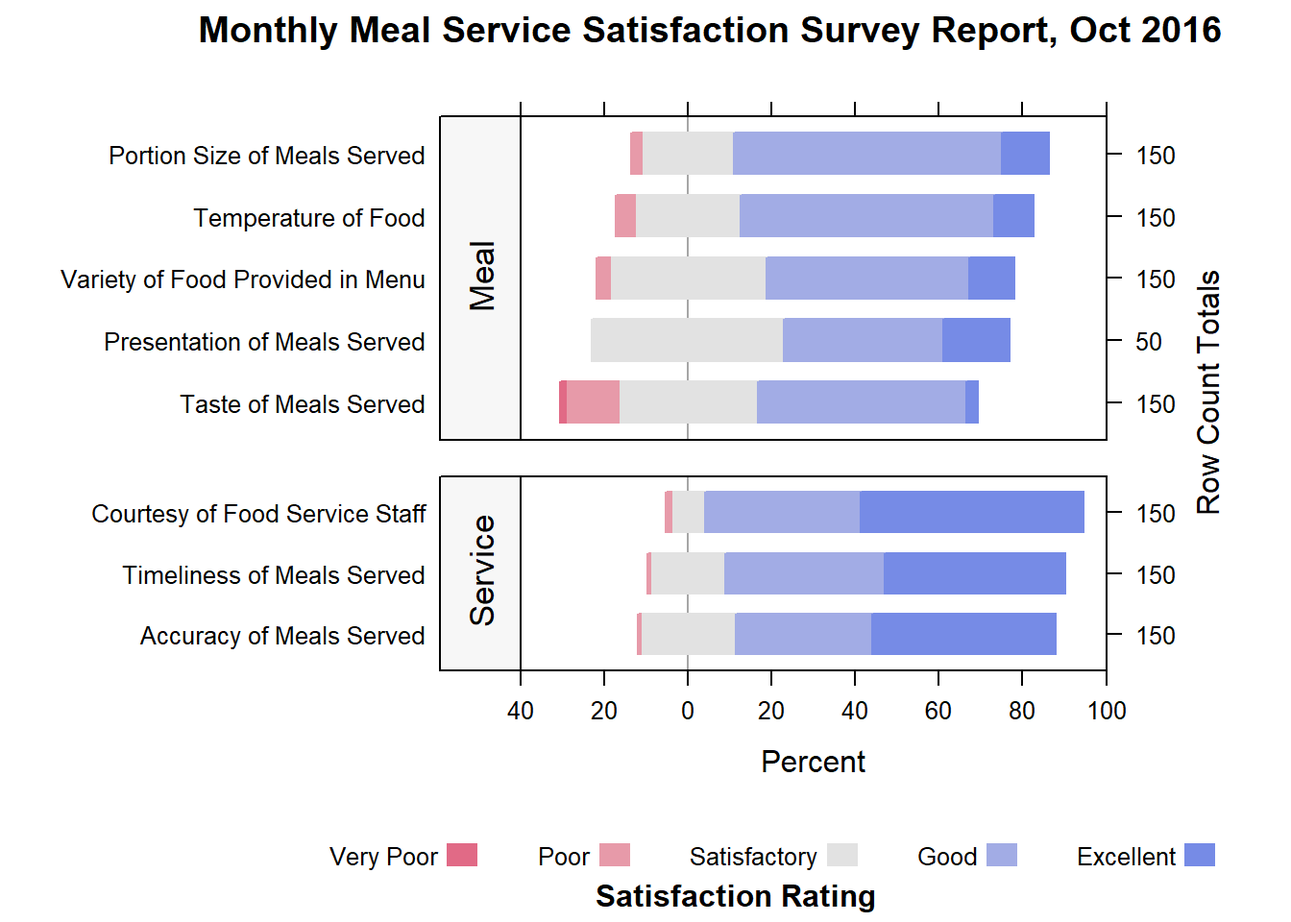
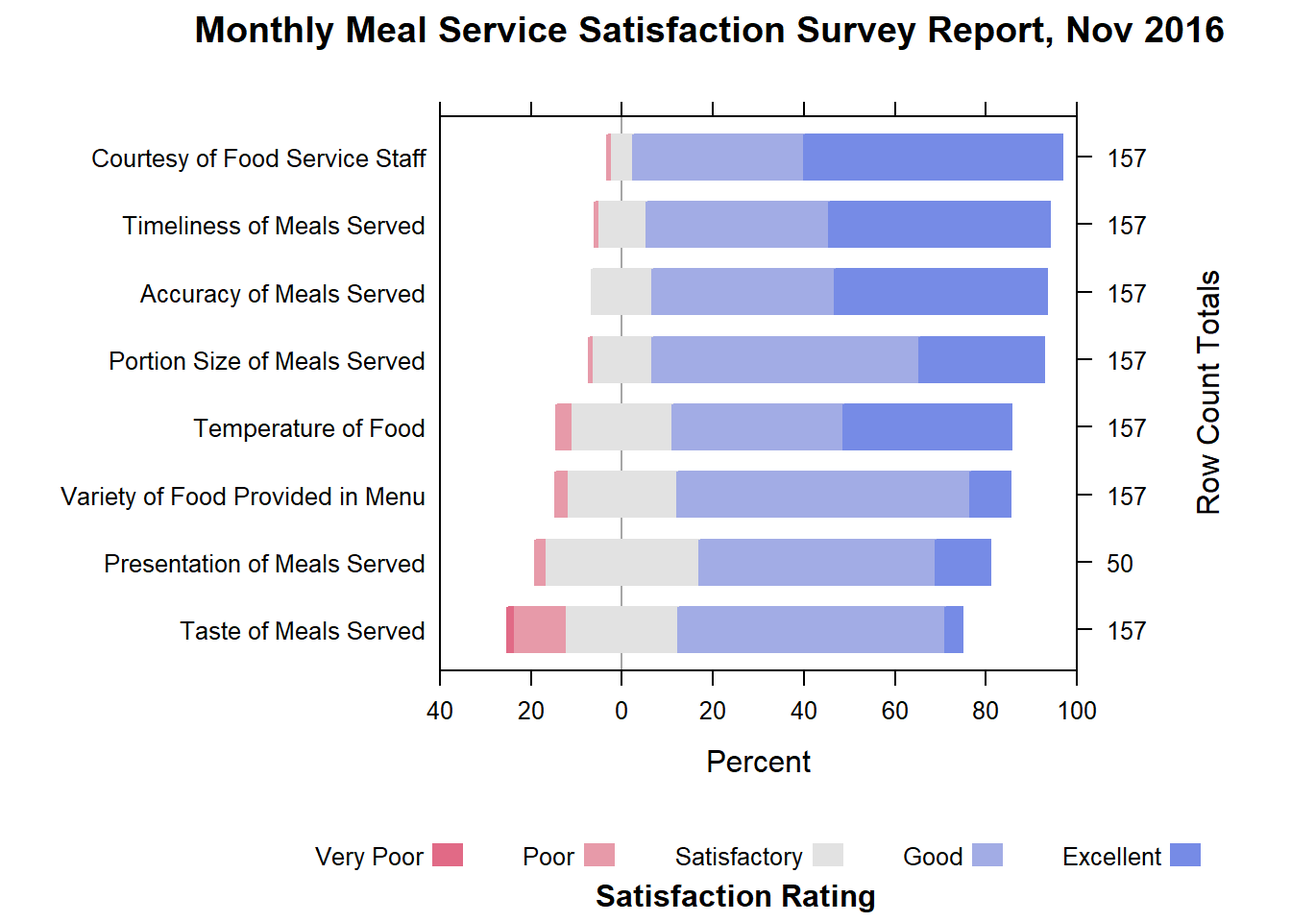
Commit Chapter 5.

diff --git a/_book/chap05.html b/_book/chap05.html
@@ -488,7 +488,7 @@ code span.wa { color: #60a0b0; font-weight: bold; font-style: italic; } /* Warni
     <div>
     <div class="quarto-title-meta-heading">Modified</div>
     <div class="quarto-title-meta-contents">
-      <p class="date-modified">April 16, 2023</p>
+      <p class="date-modified">April 27, 2023</p>
     </div>
   </div>
     
@@ -506,7 +506,7 @@ code span.wa { color: #60a0b0; font-weight: bold; font-style: italic; } /* Warni
 <li><em>likert</em> function of <strong>HH</strong> package, and</li>
 <li><em>plot_liker</em> function of <strong>sjPlot</strong> package</li>
 </ul>
-<p>In this hands-on exercise, we will focus on using <em>likert</em> function of <strong>HH</strong> package.</p>
+<p>In this hands-on exercise, we will focus on using <em>likert</em> function of <a href=""><strong>HH</strong></a> package.</p>
 </section>
 <section id="data-preparation" class="level2" data-number="5.2">
 <h2 data-number="5.2" class="anchored" data-anchor-id="data-preparation"><span class="header-section-number">5.2</span> Data Preparation</h2>
@@ -569,19 +569,35 @@ code span.wa { color: #60a0b0; font-weight: bold; font-style: italic; } /* Warni
 <div class="cell">
 <div class="sourceCode cell-code" id="cb7"><pre class="sourceCode r code-with-copy"><code class="sourceCode r"><span id="cb7-1"><a href="#cb7-1" aria-hidden="true" tabindex="-1"></a><span class="fu">colnames</span>(Oct_df) <span class="ot">&lt;-</span> <span class="fu">c</span>(<span class="st">"No_Resp"</span>,<span class="st">"Very Poor"</span>,<span class="st">"Poor"</span>,<span class="st">"Satisfactory"</span>,<span class="st">"Good"</span>,<span class="st">"Excellent"</span>)</span>
 <span id="cb7-2"><a href="#cb7-2" aria-hidden="true" tabindex="-1"></a></span>
-<span id="cb7-3"><a href="#cb7-3" aria-hidden="true" tabindex="-1"></a><span class="fu">rownames</span>(Oct_df)<span class="ot">&lt;-</span><span class="fu">c</span>(<span class="st">"Temperature of Food"</span>,<span class="st">"Timeliness of Meals Served"</span>,<span class="st">"Accuracy of Meals Served"</span>,<span class="st">"Courtesy of Food Service Staff"</span>,<span class="st">"Portion Size of Meals Served"</span>,<span class="st">"Taste of Meals Served"</span>,<span class="st">"Variety of Food Provided in Menu"</span>,<span class="st">"Presentation of Meals Served"</span>)</span>
-<span id="cb7-4"><a href="#cb7-4" aria-hidden="true" tabindex="-1"></a></span>
-<span id="cb7-5"><a href="#cb7-5" aria-hidden="true" tabindex="-1"></a><span class="fu">colnames</span>(Nov_df) <span class="ot">&lt;-</span> <span class="fu">c</span>(<span class="st">"No_Resp"</span>,<span class="st">"Very Poor"</span>,<span class="st">"Poor"</span>,<span class="st">"Satisfactory"</span>,<span class="st">"Good"</span>,<span class="st">"Excellent"</span>)</span>
-<span id="cb7-6"><a href="#cb7-6" aria-hidden="true" tabindex="-1"></a></span>
-<span id="cb7-7"><a href="#cb7-7" aria-hidden="true" tabindex="-1"></a><span class="fu">rownames</span>(Nov_df) <span class="ot">&lt;-</span> <span class="fu">c</span>(<span class="st">"Temperature of Food"</span>,<span class="st">"Timeliness of Meals Served"</span>,<span class="st">"Accuracy of Meals Served"</span>,<span class="st">"Courtesy of Food Service Staff"</span>,<span class="st">"Portion Size of Meals Served"</span>,<span class="st">"Taste of Meals Served"</span>,<span class="st">"Variety of Food Provided in Menu"</span>,<span class="st">"Presentation of Meals Served"</span>)</span></code><button title="Copy to Clipboard" class="code-copy-button"><i class="bi"></i></button></pre></div>
+<span id="cb7-3"><a href="#cb7-3" aria-hidden="true" tabindex="-1"></a><span class="fu">rownames</span>(Oct_df)<span class="ot">&lt;-</span><span class="fu">c</span>(<span class="st">"Temperature of Food"</span>,</span>
+<span id="cb7-4"><a href="#cb7-4" aria-hidden="true" tabindex="-1"></a>                    <span class="st">"Timeliness of Meals Served"</span>,</span>
+<span id="cb7-5"><a href="#cb7-5" aria-hidden="true" tabindex="-1"></a>                    <span class="st">"Accuracy of Meals Served"</span>,</span>
+<span id="cb7-6"><a href="#cb7-6" aria-hidden="true" tabindex="-1"></a>                    <span class="st">"Courtesy of Food Service Staff"</span>,</span>
+<span id="cb7-7"><a href="#cb7-7" aria-hidden="true" tabindex="-1"></a>                    <span class="st">"Portion Size of Meals Served"</span>,</span>
+<span id="cb7-8"><a href="#cb7-8" aria-hidden="true" tabindex="-1"></a>                    <span class="st">"Taste of Meals Served"</span>,</span>
+<span id="cb7-9"><a href="#cb7-9" aria-hidden="true" tabindex="-1"></a>                    <span class="st">"Variety of Food Provided in Menu"</span>,</span>
+<span id="cb7-10"><a href="#cb7-10" aria-hidden="true" tabindex="-1"></a>                    <span class="st">"Presentation of Meals Served"</span>)</span>
+<span id="cb7-11"><a href="#cb7-11" aria-hidden="true" tabindex="-1"></a></span>
+<span id="cb7-12"><a href="#cb7-12" aria-hidden="true" tabindex="-1"></a><span class="fu">colnames</span>(Nov_df) <span class="ot">&lt;-</span> <span class="fu">c</span>(<span class="st">"No_Resp"</span>,<span class="st">"Very Poor"</span>,<span class="st">"Poor"</span>,<span class="st">"Satisfactory"</span>,<span class="st">"Good"</span>,<span class="st">"Excellent"</span>)</span>
+<span id="cb7-13"><a href="#cb7-13" aria-hidden="true" tabindex="-1"></a></span>
+<span id="cb7-14"><a href="#cb7-14" aria-hidden="true" tabindex="-1"></a><span class="fu">rownames</span>(Nov_df) <span class="ot">&lt;-</span> <span class="fu">c</span>(<span class="st">"Temperature of Food"</span>,</span>
+<span id="cb7-15"><a href="#cb7-15" aria-hidden="true" tabindex="-1"></a>                      <span class="st">"Timeliness of Meals Served"</span>,</span>
+<span id="cb7-16"><a href="#cb7-16" aria-hidden="true" tabindex="-1"></a>                      <span class="st">"Accuracy of Meals Served"</span>,</span>
+<span id="cb7-17"><a href="#cb7-17" aria-hidden="true" tabindex="-1"></a>                      <span class="st">"Courtesy of Food Service Staff"</span>,</span>
+<span id="cb7-18"><a href="#cb7-18" aria-hidden="true" tabindex="-1"></a>                      <span class="st">"Portion Size of Meals Served"</span>,</span>
+<span id="cb7-19"><a href="#cb7-19" aria-hidden="true" tabindex="-1"></a>                      <span class="st">"Taste of Meals Served"</span>,</span>
+<span id="cb7-20"><a href="#cb7-20" aria-hidden="true" tabindex="-1"></a>                      <span class="st">"Variety of Food Provided in Menu"</span>,</span>
+<span id="cb7-21"><a href="#cb7-21" aria-hidden="true" tabindex="-1"></a>                      <span class="st">"Presentation of Meals Served"</span>)</span></code><button title="Copy to Clipboard" class="code-copy-button"><i class="bi"></i></button></pre></div>
 </div>
 </section>
 <section id="changing-the-dataframe-row-name" class="level3" data-number="5.3.6">
 <h3 data-number="5.3.6" class="anchored" data-anchor-id="changing-the-dataframe-row-name"><span class="header-section-number">5.3.6</span> Changing the dataframe row name</h3>
 <p>The R dataframe row names are converted into a column called Measure for better usage</p>
 <div class="cell">
-<div class="sourceCode cell-code" id="cb8"><pre class="sourceCode r code-with-copy"><code class="sourceCode r"><span id="cb8-1"><a href="#cb8-1" aria-hidden="true" tabindex="-1"></a>Oct_df <span class="ot">&lt;-</span> tibble<span class="sc">::</span><span class="fu">rownames_to_column</span>(Oct_df, <span class="at">var=</span><span class="st">"Measure"</span>) </span>
-<span id="cb8-2"><a href="#cb8-2" aria-hidden="true" tabindex="-1"></a>Nov_df <span class="ot">&lt;-</span> tibble<span class="sc">::</span><span class="fu">rownames_to_column</span>(Nov_df, <span class="at">var=</span><span class="st">"Measure"</span>) </span></code><button title="Copy to Clipboard" class="code-copy-button"><i class="bi"></i></button></pre></div>
+<div class="sourceCode cell-code" id="cb8"><pre class="sourceCode r code-with-copy"><code class="sourceCode r"><span id="cb8-1"><a href="#cb8-1" aria-hidden="true" tabindex="-1"></a>Oct_df <span class="ot">&lt;-</span> tibble<span class="sc">::</span><span class="fu">rownames_to_column</span>(Oct_df, </span>
+<span id="cb8-2"><a href="#cb8-2" aria-hidden="true" tabindex="-1"></a>                                     <span class="at">var=</span><span class="st">"Measure"</span>) </span>
+<span id="cb8-3"><a href="#cb8-3" aria-hidden="true" tabindex="-1"></a>Nov_df <span class="ot">&lt;-</span> tibble<span class="sc">::</span><span class="fu">rownames_to_column</span>(Nov_df, </span>
+<span id="cb8-4"><a href="#cb8-4" aria-hidden="true" tabindex="-1"></a>                                     <span class="at">var=</span><span class="st">"Measure"</span>) </span></code><button title="Copy to Clipboard" class="code-copy-button"><i class="bi"></i></button></pre></div>
 </div>
 </section>
 <section id="excluding-missing-value" class="level3" data-number="5.3.7">
@@ -599,71 +615,161 @@ code span.wa { color: #60a0b0; font-weight: bold; font-style: italic; } /* Warni
 <section id="the-basic-diverging-stacked-bar-chart" class="level3" data-number="5.4.1">
 <h3 data-number="5.4.1" class="anchored" data-anchor-id="the-basic-diverging-stacked-bar-chart"><span class="header-section-number">5.4.1</span> The basic diverging stacked bar chart</h3>
 <p>Below are the code chunk used to create the basic diverging stacked bar charts for the month of October of 2016.</p>
+<div class="panel-tabset">
+<ul class="nav nav-tabs" role="tablist"><li class="nav-item" role="presentation"><a class="nav-link active" id="tabset-1-1-tab" data-bs-toggle="tab" data-bs-target="#tabset-1-1" role="tab" aria-controls="tabset-1-1" aria-selected="true" aria-current="page">The plot</a></li><li class="nav-item" role="presentation"><a class="nav-link" id="tabset-1-2-tab" data-bs-toggle="tab" data-bs-target="#tabset-1-2" role="tab" aria-controls="tabset-1-2" aria-selected="false">The code chunk</a></li></ul>
+<div class="tab-content">
+<div id="tabset-1-1" class="tab-pane active" role="tabpanel" aria-labelledby="tabset-1-1-tab">
 <div class="cell">
-<div class="sourceCode cell-code" id="cb10"><pre class="sourceCode r code-with-copy"><code class="sourceCode r"><span id="cb10-1"><a href="#cb10-1" aria-hidden="true" tabindex="-1"></a><span class="fu">likert</span>(Measure <span class="sc">~</span> ., <span class="at">data=</span>Oct_df, <span class="at">ylab=</span><span class="cn">NULL</span>,</span>
-<span id="cb10-2"><a href="#cb10-2" aria-hidden="true" tabindex="-1"></a>       <span class="at">ReferenceZero=</span><span class="dv">3</span>, <span class="at">as.percent=</span><span class="cn">TRUE</span>,</span>
-<span id="cb10-3"><a href="#cb10-3" aria-hidden="true" tabindex="-1"></a>       <span class="at">positive.order=</span><span class="cn">TRUE</span>, </span>
-<span id="cb10-4"><a href="#cb10-4" aria-hidden="true" tabindex="-1"></a>       <span class="at">main =</span> <span class="fu">list</span>(<span class="st">"Monthly Meal Service Satisfaction Survey Report, Oct 2016"</span>,<span class="at">x=</span><span class="fu">unit</span>(.<span class="dv">55</span>, <span class="st">"npc"</span>)), </span>
-<span id="cb10-5"><a href="#cb10-5" aria-hidden="true" tabindex="-1"></a>       <span class="at">sub=</span> <span class="fu">list</span>(<span class="st">"Satisfaction Rating"</span>,<span class="at">x=</span><span class="fu">unit</span>(.<span class="dv">57</span>, <span class="st">"npc"</span>)), </span>
-<span id="cb10-6"><a href="#cb10-6" aria-hidden="true" tabindex="-1"></a>       <span class="at">xlim=</span><span class="fu">c</span>(<span class="sc">-</span><span class="dv">40</span>,<span class="sc">-</span><span class="dv">20</span>,<span class="dv">0</span>,<span class="dv">20</span>,<span class="dv">40</span>,<span class="dv">60</span>,<span class="dv">80</span>,<span class="dv">100</span>),</span>
-<span id="cb10-7"><a href="#cb10-7" aria-hidden="true" tabindex="-1"></a>       <span class="at">strip=</span><span class="cn">FALSE</span>, </span>
-<span id="cb10-8"><a href="#cb10-8" aria-hidden="true" tabindex="-1"></a>       <span class="at">par.strip.text=</span><span class="fu">list</span>(<span class="at">cex=</span>.<span class="dv">7</span>))</span></code><button title="Copy to Clipboard" class="code-copy-button"><i class="bi"></i></button></pre></div>
 <div class="cell-output-display">
 <p><img src="chap05_files/figure-html/unnamed-chunk-10-1.png" class="img-fluid" width="672"></p>
 </div>
 </div>
-<p>Things to learn from the code chunk above:</p>
+</div>
+<div id="tabset-1-2" class="tab-pane" role="tabpanel" aria-labelledby="tabset-1-2-tab">
+<div class="cell">
+<div class="sourceCode cell-code" id="cb10"><pre class="sourceCode r code-with-copy"><code class="sourceCode r"><span id="cb10-1"><a href="#cb10-1" aria-hidden="true" tabindex="-1"></a><span class="fu">likert</span>(Measure <span class="sc">~</span> ., </span>
+<span id="cb10-2"><a href="#cb10-2" aria-hidden="true" tabindex="-1"></a>       <span class="at">data=</span>Oct_df, </span>
+<span id="cb10-3"><a href="#cb10-3" aria-hidden="true" tabindex="-1"></a>       <span class="at">ylab=</span><span class="cn">NULL</span>,</span>
+<span id="cb10-4"><a href="#cb10-4" aria-hidden="true" tabindex="-1"></a>       <span class="at">ReferenceZero=</span><span class="dv">3</span>, </span>
+<span id="cb10-5"><a href="#cb10-5" aria-hidden="true" tabindex="-1"></a>       <span class="at">as.percent=</span><span class="cn">TRUE</span>,</span>
+<span id="cb10-6"><a href="#cb10-6" aria-hidden="true" tabindex="-1"></a>       <span class="at">positive.order=</span><span class="cn">TRUE</span>, </span>
+<span id="cb10-7"><a href="#cb10-7" aria-hidden="true" tabindex="-1"></a>       <span class="at">main =</span> <span class="fu">list</span>(<span class="st">"Monthly Meal Service Satisfaction Survey Report, Oct 2016"</span>,<span class="at">x=</span><span class="fu">unit</span>(.<span class="dv">55</span>, <span class="st">"npc"</span>)), </span>
+<span id="cb10-8"><a href="#cb10-8" aria-hidden="true" tabindex="-1"></a>       <span class="at">sub=</span> <span class="fu">list</span>(<span class="st">"Satisfaction Rating"</span>,</span>
+<span id="cb10-9"><a href="#cb10-9" aria-hidden="true" tabindex="-1"></a>                 <span class="at">x=</span><span class="fu">unit</span>(.<span class="dv">57</span>, <span class="st">"npc"</span>)),</span>
+<span id="cb10-10"><a href="#cb10-10" aria-hidden="true" tabindex="-1"></a>       <span class="at">xlim=</span><span class="fu">c</span>(<span class="sc">-</span><span class="dv">40</span>,<span class="sc">-</span><span class="dv">20</span>,<span class="dv">0</span>,<span class="dv">20</span>,<span class="dv">40</span>,<span class="dv">60</span>,<span class="dv">80</span>,<span class="dv">100</span>),</span>
+<span id="cb10-11"><a href="#cb10-11" aria-hidden="true" tabindex="-1"></a>       <span class="at">strip=</span><span class="cn">FALSE</span>, </span>
+<span id="cb10-12"><a href="#cb10-12" aria-hidden="true" tabindex="-1"></a>       <span class="at">par.strip.text=</span><span class="fu">list</span>(<span class="at">cex=</span>.<span class="dv">7</span>))</span></code><button title="Copy to Clipboard" class="code-copy-button"><i class="bi"></i></button></pre></div>
+</div>
+</div>
+</div>
+</div>
+<div class="callout-note callout callout-style-default callout-captioned">
+<div class="callout-header d-flex align-content-center">
+<div class="callout-icon-container">
+<i class="callout-icon"></i>
+</div>
+<div class="callout-caption-container flex-fill">
+Things to learn from the code chunk above
+</div>
+</div>
+<div class="callout-body-container callout-body">
 <ul>
-<li>The results are displayed as percentages using the as.percent=TRUE option.<br>
-</li>
-<li>The results are sorted by descending order using the positive.order=TRUE option.<br>
-</li>
+<li>The results are displayed as percentages using the as.percent=TRUE option.</li>
+<li>The results are sorted by descending order using the positive.order=TRUE option.</li>
 <li>The x-axis tick marks separtion is set to 20. Since we are using a divergent chart we have to define negative values as well.</li>
-<li>The unit function is used to define the position of the main title and subtitle to ensure they are centered.<br>
-</li>
+<li>The unit function is used to define the position of the main title and subtitle to ensure they are centered.</li>
 <li>The count of responses for each question is displayed with tick marks.</li>
 </ul>
+</div>
+</div>
 <p><em>DIY: Plot a diverging bar chart for the month of November 2016.</em></p>
 <p>The output should look similar to the figure below:</p>
+<div class="panel-tabset">
+<ul class="nav nav-tabs" role="tablist"><li class="nav-item" role="presentation"><a class="nav-link active" id="tabset-2-1-tab" data-bs-toggle="tab" data-bs-target="#tabset-2-1" role="tab" aria-controls="tabset-2-1" aria-selected="true">The plot</a></li><li class="nav-item" role="presentation"><a class="nav-link" id="tabset-2-2-tab" data-bs-toggle="tab" data-bs-target="#tabset-2-2" role="tab" aria-controls="tabset-2-2" aria-selected="false">The code chunk</a></li></ul>
+<div class="tab-content">
+<div id="tabset-2-1" class="tab-pane active" role="tabpanel" aria-labelledby="tabset-2-1-tab">
 <div class="cell">
 <div class="cell-output-display">
-<p><img src="chap05_files/figure-html/unnamed-chunk-11-1.png" class="img-fluid" width="672"></p>
+<p><img src="chap05_files/figure-html/unnamed-chunk-12-1.png" class="img-fluid" width="672"></p>
+</div>
+</div>
+</div>
+<div id="tabset-2-2" class="tab-pane" role="tabpanel" aria-labelledby="tabset-2-2-tab">
+<div class="cell">
+<div class="sourceCode cell-code" id="cb11"><pre class="sourceCode r code-with-copy"><code class="sourceCode r"><span id="cb11-1"><a href="#cb11-1" aria-hidden="true" tabindex="-1"></a><span class="fu">likert</span>(Measure <span class="sc">~</span> ., </span>
+<span id="cb11-2"><a href="#cb11-2" aria-hidden="true" tabindex="-1"></a>       <span class="at">data=</span>Nov_df, </span>
+<span id="cb11-3"><a href="#cb11-3" aria-hidden="true" tabindex="-1"></a>       <span class="at">ylab=</span><span class="cn">NULL</span>,</span>
+<span id="cb11-4"><a href="#cb11-4" aria-hidden="true" tabindex="-1"></a>       <span class="at">ReferenceZero=</span><span class="dv">3</span>, </span>
+<span id="cb11-5"><a href="#cb11-5" aria-hidden="true" tabindex="-1"></a>       <span class="at">as.percent=</span><span class="cn">TRUE</span>,</span>
+<span id="cb11-6"><a href="#cb11-6" aria-hidden="true" tabindex="-1"></a>       <span class="at">positive.order=</span><span class="cn">TRUE</span>, </span>
+<span id="cb11-7"><a href="#cb11-7" aria-hidden="true" tabindex="-1"></a>       <span class="at">main =</span> <span class="fu">list</span>(<span class="st">"Monthly Meal Service Satisfaction Survey Report, Nov 2016"</span>,</span>
+<span id="cb11-8"><a href="#cb11-8" aria-hidden="true" tabindex="-1"></a>                   <span class="at">x=</span><span class="fu">unit</span>(.<span class="dv">55</span>, <span class="st">"npc"</span>)), </span>
+<span id="cb11-9"><a href="#cb11-9" aria-hidden="true" tabindex="-1"></a>       <span class="at">sub=</span> <span class="fu">list</span>(<span class="st">"Satisfaction Rating"</span>,</span>
+<span id="cb11-10"><a href="#cb11-10" aria-hidden="true" tabindex="-1"></a>                 <span class="at">x=</span><span class="fu">unit</span>(.<span class="dv">57</span>, <span class="st">"npc"</span>)), </span>
+<span id="cb11-11"><a href="#cb11-11" aria-hidden="true" tabindex="-1"></a>       <span class="at">xlim=</span><span class="fu">c</span>(<span class="sc">-</span><span class="dv">40</span>,<span class="sc">-</span><span class="dv">20</span>,<span class="dv">0</span>,<span class="dv">20</span>,<span class="dv">40</span>,<span class="dv">60</span>,<span class="dv">80</span>,<span class="dv">100</span>),</span>
+<span id="cb11-12"><a href="#cb11-12" aria-hidden="true" tabindex="-1"></a>       <span class="at">strip=</span><span class="cn">FALSE</span>,</span>
+<span id="cb11-13"><a href="#cb11-13" aria-hidden="true" tabindex="-1"></a>       <span class="at">par.strip.text=</span><span class="fu">list</span>(<span class="at">cex=</span>.<span class="dv">7</span>))</span></code><button title="Copy to Clipboard" class="code-copy-button"><i class="bi"></i></button></pre></div>
+</div>
+</div>
 </div>
 </div>
 </section>
 <section id="diverging-stacked-bar-charts-with-two-categories" class="level3" data-number="5.4.2">
 <h3 data-number="5.4.2" class="anchored" data-anchor-id="diverging-stacked-bar-charts-with-two-categories"><span class="header-section-number">5.4.2</span> Diverging Stacked Bar Charts with Two Categories</h3>
 <p>We try out the option of splitting the questions into Meal and Services categories.</p>
+<div class="panel-tabset">
+<ul class="nav nav-tabs" role="tablist"><li class="nav-item" role="presentation"><a class="nav-link active" id="tabset-3-1-tab" data-bs-toggle="tab" data-bs-target="#tabset-3-1" role="tab" aria-controls="tabset-3-1" aria-selected="true">The plot</a></li><li class="nav-item" role="presentation"><a class="nav-link" id="tabset-3-2-tab" data-bs-toggle="tab" data-bs-target="#tabset-3-2" role="tab" aria-controls="tabset-3-2" aria-selected="false">The code chunk</a></li></ul>
+<div class="tab-content">
+<div id="tabset-3-1" class="tab-pane active" role="tabpanel" aria-labelledby="tabset-3-1-tab">
 <div class="cell">
-<div class="sourceCode cell-code" id="cb11"><pre class="sourceCode r code-with-copy"><code class="sourceCode r"><span id="cb11-1"><a href="#cb11-1" aria-hidden="true" tabindex="-1"></a>Type <span class="ot">&lt;-</span><span class="fu">c</span>(<span class="st">"Meal"</span>,<span class="st">"Service"</span>,<span class="st">"Service"</span>,<span class="st">"Service"</span>,<span class="st">"Meal"</span>,<span class="st">"Meal"</span>,<span class="st">"Meal"</span>,<span class="st">"Meal"</span>)</span>
-<span id="cb11-2"><a href="#cb11-2" aria-hidden="true" tabindex="-1"></a>Oct_df2<span class="ot">&lt;-</span><span class="fu">cbind</span>(Oct_df,Type)</span>
-<span id="cb11-3"><a href="#cb11-3" aria-hidden="true" tabindex="-1"></a>Nov_df2<span class="ot">&lt;-</span><span class="fu">cbind</span>(Nov_df,Type)</span>
-<span id="cb11-4"><a href="#cb11-4" aria-hidden="true" tabindex="-1"></a></span>
-<span id="cb11-5"><a href="#cb11-5" aria-hidden="true" tabindex="-1"></a><span class="fu">likert</span>(Measure <span class="sc">~</span> .<span class="sc">|</span> Type, <span class="at">data=</span>Oct_df2,</span>
-<span id="cb11-6"><a href="#cb11-6" aria-hidden="true" tabindex="-1"></a>       <span class="at">layout=</span><span class="fu">c</span>(<span class="dv">1</span>,<span class="dv">2</span>),</span>
-<span id="cb11-7"><a href="#cb11-7" aria-hidden="true" tabindex="-1"></a>       <span class="at">scales=</span><span class="fu">list</span>(<span class="at">y=</span><span class="fu">list</span>(<span class="at">relation=</span><span class="st">"free"</span>)),</span>
-<span id="cb11-8"><a href="#cb11-8" aria-hidden="true" tabindex="-1"></a>       <span class="at">between=</span><span class="fu">list</span>(<span class="at">y=</span><span class="dv">1</span>),</span>
-<span id="cb11-9"><a href="#cb11-9" aria-hidden="true" tabindex="-1"></a>       <span class="at">strip.left=</span><span class="fu">strip.custom</span>(<span class="at">bg=</span><span class="st">"gray97"</span>),</span>
-<span id="cb11-10"><a href="#cb11-10" aria-hidden="true" tabindex="-1"></a>       <span class="at">strip=</span><span class="cn">FALSE</span>,</span>
-<span id="cb11-11"><a href="#cb11-11" aria-hidden="true" tabindex="-1"></a>       <span class="at">par.strip.text=</span><span class="fu">list</span>(<span class="at">cex=</span><span class="fl">1.1</span>, <span class="at">lines=</span><span class="dv">2</span>),</span>
-<span id="cb11-12"><a href="#cb11-12" aria-hidden="true" tabindex="-1"></a>       <span class="at">ylab=</span><span class="cn">NULL</span>, </span>
-<span id="cb11-13"><a href="#cb11-13" aria-hidden="true" tabindex="-1"></a>       <span class="at">cex=</span><span class="fl">1.2</span>,</span>
-<span id="cb11-14"><a href="#cb11-14" aria-hidden="true" tabindex="-1"></a>       <span class="at">ReferenceZero=</span><span class="dv">3</span>,</span>
-<span id="cb11-15"><a href="#cb11-15" aria-hidden="true" tabindex="-1"></a>       <span class="at">as.percent=</span><span class="cn">TRUE</span>, </span>
-<span id="cb11-16"><a href="#cb11-16" aria-hidden="true" tabindex="-1"></a>       <span class="at">positive.order=</span><span class="cn">TRUE</span>, </span>
-<span id="cb11-17"><a href="#cb11-17" aria-hidden="true" tabindex="-1"></a>       <span class="at">main =</span> <span class="fu">list</span>(<span class="st">"Monthly Meal Service Satisfaction Survey Report, Oct 2016"</span>,<span class="at">x=</span><span class="fu">unit</span>(.<span class="dv">55</span>, <span class="st">"npc"</span>)), </span>
-<span id="cb11-18"><a href="#cb11-18" aria-hidden="true" tabindex="-1"></a>       <span class="at">sub=</span> <span class="fu">list</span>(<span class="st">"Satisfaction Rating"</span>,<span class="at">x=</span><span class="fu">unit</span>(.<span class="dv">57</span>, <span class="st">"npc"</span>)), </span>
-<span id="cb11-19"><a href="#cb11-19" aria-hidden="true" tabindex="-1"></a>       <span class="at">xlim=</span><span class="fu">c</span>(<span class="sc">-</span><span class="dv">40</span>,<span class="sc">-</span><span class="dv">20</span>,<span class="dv">0</span>,<span class="dv">20</span>,<span class="dv">40</span>,<span class="dv">60</span>,<span class="dv">80</span>,<span class="dv">100</span>),</span>
-<span id="cb11-20"><a href="#cb11-20" aria-hidden="true" tabindex="-1"></a>       <span class="at">resize.height.tuning=</span><span class="dv">1</span>)</span></code><button title="Copy to Clipboard" class="code-copy-button"><i class="bi"></i></button></pre></div>
 <div class="cell-output-display">
-<p><img src="chap05_files/figure-html/unnamed-chunk-12-1.png" class="img-fluid" width="672"></p>
+<p><img src="chap05_files/figure-html/unnamed-chunk-14-1.png" class="img-fluid" width="672"></p>
+</div>
+</div>
+</div>
+<div id="tabset-3-2" class="tab-pane" role="tabpanel" aria-labelledby="tabset-3-2-tab">
+<div class="cell">
+<div class="sourceCode cell-code" id="cb12"><pre class="sourceCode r code-with-copy"><code class="sourceCode r"><span id="cb12-1"><a href="#cb12-1" aria-hidden="true" tabindex="-1"></a>Type <span class="ot">&lt;-</span><span class="fu">c</span>(<span class="st">"Meal"</span>, <span class="st">"Service"</span>, <span class="st">"Service"</span>,<span class="st">"Service"</span>,</span>
+<span id="cb12-2"><a href="#cb12-2" aria-hidden="true" tabindex="-1"></a>         <span class="st">"Meal"</span>,<span class="st">"Meal"</span>,<span class="st">"Meal"</span>,<span class="st">"Meal"</span>)</span>
+<span id="cb12-3"><a href="#cb12-3" aria-hidden="true" tabindex="-1"></a>Oct_df2<span class="ot">&lt;-</span><span class="fu">cbind</span>(Oct_df,Type)</span>
+<span id="cb12-4"><a href="#cb12-4" aria-hidden="true" tabindex="-1"></a>Nov_df2<span class="ot">&lt;-</span><span class="fu">cbind</span>(Nov_df,Type)</span>
+<span id="cb12-5"><a href="#cb12-5" aria-hidden="true" tabindex="-1"></a></span>
+<span id="cb12-6"><a href="#cb12-6" aria-hidden="true" tabindex="-1"></a><span class="fu">likert</span>(Measure <span class="sc">~</span> .<span class="sc">|</span> Type, </span>
+<span id="cb12-7"><a href="#cb12-7" aria-hidden="true" tabindex="-1"></a>       <span class="at">data=</span>Oct_df2,</span>
+<span id="cb12-8"><a href="#cb12-8" aria-hidden="true" tabindex="-1"></a>       <span class="at">layout=</span><span class="fu">c</span>(<span class="dv">1</span>,<span class="dv">2</span>),</span>
+<span id="cb12-9"><a href="#cb12-9" aria-hidden="true" tabindex="-1"></a>       <span class="at">scales=</span><span class="fu">list</span>(<span class="at">y=</span><span class="fu">list</span>(<span class="at">relation=</span><span class="st">"free"</span>)),</span>
+<span id="cb12-10"><a href="#cb12-10" aria-hidden="true" tabindex="-1"></a>       <span class="at">between=</span><span class="fu">list</span>(<span class="at">y=</span><span class="dv">1</span>),</span>
+<span id="cb12-11"><a href="#cb12-11" aria-hidden="true" tabindex="-1"></a>       <span class="at">strip.left=</span><span class="fu">strip.custom</span>(<span class="at">bg=</span><span class="st">"gray97"</span>),</span>
+<span id="cb12-12"><a href="#cb12-12" aria-hidden="true" tabindex="-1"></a>       <span class="at">strip=</span><span class="cn">FALSE</span>,</span>
+<span id="cb12-13"><a href="#cb12-13" aria-hidden="true" tabindex="-1"></a>       <span class="at">par.strip.text=</span><span class="fu">list</span>(<span class="at">cex=</span><span class="fl">1.1</span>, <span class="at">lines=</span><span class="dv">2</span>),</span>
+<span id="cb12-14"><a href="#cb12-14" aria-hidden="true" tabindex="-1"></a>       <span class="at">ylab=</span><span class="cn">NULL</span>, </span>
+<span id="cb12-15"><a href="#cb12-15" aria-hidden="true" tabindex="-1"></a>       <span class="at">cex=</span><span class="fl">1.2</span>,</span>
+<span id="cb12-16"><a href="#cb12-16" aria-hidden="true" tabindex="-1"></a>       <span class="at">ReferenceZero=</span><span class="dv">3</span>,</span>
+<span id="cb12-17"><a href="#cb12-17" aria-hidden="true" tabindex="-1"></a>       <span class="at">as.percent=</span><span class="cn">TRUE</span>, </span>
+<span id="cb12-18"><a href="#cb12-18" aria-hidden="true" tabindex="-1"></a>       <span class="at">positive.order=</span><span class="cn">TRUE</span>, </span>
+<span id="cb12-19"><a href="#cb12-19" aria-hidden="true" tabindex="-1"></a>       <span class="at">main =</span> <span class="fu">list</span>(<span class="st">"Monthly Meal Service Satisfaction Survey Report, Oct 2016"</span>,</span>
+<span id="cb12-20"><a href="#cb12-20" aria-hidden="true" tabindex="-1"></a>                   <span class="at">x=</span><span class="fu">unit</span>(.<span class="dv">55</span>, <span class="st">"npc"</span>)), </span>
+<span id="cb12-21"><a href="#cb12-21" aria-hidden="true" tabindex="-1"></a>       <span class="at">sub=</span> <span class="fu">list</span>(<span class="st">"Satisfaction Rating"</span>,<span class="at">x=</span><span class="fu">unit</span>(.<span class="dv">57</span>, <span class="st">"npc"</span>)), </span>
+<span id="cb12-22"><a href="#cb12-22" aria-hidden="true" tabindex="-1"></a>       <span class="at">xlim=</span><span class="fu">c</span>(<span class="sc">-</span><span class="dv">40</span>,<span class="sc">-</span><span class="dv">20</span>,<span class="dv">0</span>,<span class="dv">20</span>,<span class="dv">40</span>,<span class="dv">60</span>,<span class="dv">80</span>,<span class="dv">100</span>),</span>
+<span id="cb12-23"><a href="#cb12-23" aria-hidden="true" tabindex="-1"></a>       <span class="at">resize.height.tuning=</span><span class="dv">1</span>)</span></code><button title="Copy to Clipboard" class="code-copy-button"><i class="bi"></i></button></pre></div>
+</div>
+</div>
 </div>
 </div>
 <p><em>DIY: Plot a diverging bar chart with two categories for the month of November 2016.</em></p>
+<div class="panel-tabset">
+<ul class="nav nav-tabs" role="tablist"><li class="nav-item" role="presentation"><a class="nav-link active" id="tabset-4-1-tab" data-bs-toggle="tab" data-bs-target="#tabset-4-1" role="tab" aria-controls="tabset-4-1" aria-selected="true">The plot</a></li><li class="nav-item" role="presentation"><a class="nav-link" id="tabset-4-2-tab" data-bs-toggle="tab" data-bs-target="#tabset-4-2" role="tab" aria-controls="tabset-4-2" aria-selected="false">The code chunk</a></li></ul>
+<div class="tab-content">
+<div id="tabset-4-1" class="tab-pane active" role="tabpanel" aria-labelledby="tabset-4-1-tab">
 <p>The output should look similar to the figure below:</p>
 <div class="cell">
 <div class="cell-output-display">
-<p><img src="chap05_files/figure-html/unnamed-chunk-13-1.png" class="img-fluid" width="672"></p>
+<p><img src="chap05_files/figure-html/unnamed-chunk-16-1.png" class="img-fluid" width="672"></p>
+</div>
+</div>
+</div>
+<div id="tabset-4-2" class="tab-pane" role="tabpanel" aria-labelledby="tabset-4-2-tab">
+<p>The code chunk should look similar to the print below:</p>
+<div class="cell">
+<div class="sourceCode cell-code" id="cb13"><pre class="sourceCode r code-with-copy"><code class="sourceCode r"><span id="cb13-1"><a href="#cb13-1" aria-hidden="true" tabindex="-1"></a><span class="fu">likert</span>(Measure <span class="sc">~</span> .<span class="sc">|</span> Type, <span class="at">data=</span>Nov_df2,</span>
+<span id="cb13-2"><a href="#cb13-2" aria-hidden="true" tabindex="-1"></a>       <span class="at">layout=</span><span class="fu">c</span>(<span class="dv">1</span>,<span class="dv">2</span>),</span>
+<span id="cb13-3"><a href="#cb13-3" aria-hidden="true" tabindex="-1"></a>       <span class="at">scales=</span><span class="fu">list</span>(<span class="at">y=</span><span class="fu">list</span>(<span class="at">relation=</span><span class="st">"free"</span>)),</span>
+<span id="cb13-4"><a href="#cb13-4" aria-hidden="true" tabindex="-1"></a>       <span class="at">between=</span><span class="fu">list</span>(<span class="at">y=</span><span class="dv">1</span>),</span>
+<span id="cb13-5"><a href="#cb13-5" aria-hidden="true" tabindex="-1"></a>       <span class="at">strip.left=</span><span class="fu">strip.custom</span>(<span class="at">bg=</span><span class="st">"gray97"</span>),</span>
+<span id="cb13-6"><a href="#cb13-6" aria-hidden="true" tabindex="-1"></a>       <span class="at">strip=</span><span class="cn">FALSE</span>,</span>
+<span id="cb13-7"><a href="#cb13-7" aria-hidden="true" tabindex="-1"></a>       <span class="at">par.strip.text=</span><span class="fu">list</span>(<span class="at">cex=</span><span class="fl">1.1</span>, <span class="at">lines=</span><span class="dv">2</span>),</span>
+<span id="cb13-8"><a href="#cb13-8" aria-hidden="true" tabindex="-1"></a>       <span class="at">ylab=</span><span class="cn">NULL</span>, </span>
+<span id="cb13-9"><a href="#cb13-9" aria-hidden="true" tabindex="-1"></a>       <span class="at">cex=</span><span class="fl">1.2</span>,</span>
+<span id="cb13-10"><a href="#cb13-10" aria-hidden="true" tabindex="-1"></a>       <span class="at">ReferenceZero=</span><span class="dv">3</span>,</span>
+<span id="cb13-11"><a href="#cb13-11" aria-hidden="true" tabindex="-1"></a>       <span class="at">as.percent=</span><span class="cn">TRUE</span>, </span>
+<span id="cb13-12"><a href="#cb13-12" aria-hidden="true" tabindex="-1"></a>       <span class="at">positive.order=</span><span class="cn">TRUE</span>, </span>
+<span id="cb13-13"><a href="#cb13-13" aria-hidden="true" tabindex="-1"></a>       <span class="at">main =</span> <span class="fu">list</span>(<span class="st">"Monthly Meal Service Satisfaction Survey Report, Nov 2016"</span>, </span>
+<span id="cb13-14"><a href="#cb13-14" aria-hidden="true" tabindex="-1"></a>                   <span class="at">x=</span><span class="fu">unit</span>(.<span class="dv">55</span>, <span class="st">"npc"</span>)), </span>
+<span id="cb13-15"><a href="#cb13-15" aria-hidden="true" tabindex="-1"></a>       <span class="at">sub=</span> <span class="fu">list</span>(<span class="st">"Satisfaction Rating"</span>, <span class="at">x=</span><span class="fu">unit</span>(.<span class="dv">57</span>, <span class="st">"npc"</span>)), </span>
+<span id="cb13-16"><a href="#cb13-16" aria-hidden="true" tabindex="-1"></a>       <span class="at">xlim=</span><span class="fu">c</span>(<span class="sc">-</span><span class="dv">40</span>,<span class="sc">-</span><span class="dv">20</span>,<span class="dv">0</span>,<span class="dv">20</span>,<span class="dv">40</span>,<span class="dv">60</span>,<span class="dv">80</span>,<span class="dv">100</span>),</span>
+<span id="cb13-17"><a href="#cb13-17" aria-hidden="true" tabindex="-1"></a>       <span class="at">resize.height.tuning=</span><span class="dv">1</span>)</span></code><button title="Copy to Clipboard" class="code-copy-button"><i class="bi"></i></button></pre></div>
+</div>
+</div>
 </div>
 </div>
 <p><strong>Credit:</strong> This hands-on exercise was created base on DataViz Makeover 3 submission by David Ten Kao Yuan (ISSS608 AY2016-17T3).</p>
